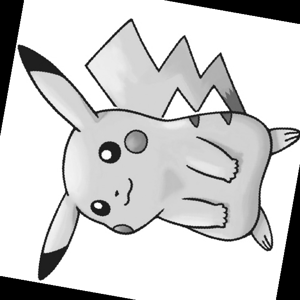
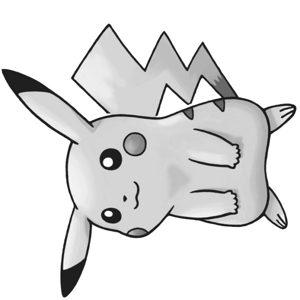
crop the image

diff --git a/image.py b/image.py
@@ -16,7 +16,10 @@ image_rotate = filter_img_l.rotate(90)
 image_resize = image_rotate.resize((300,300))
 image_resize.save('grey.png', 'png')
 
+#crop image
+box = (100,100,400,400)
+region = image_resize.crop(box)
+region.show()
 
 # filter_img.show()
-
 # print(dir(img))
